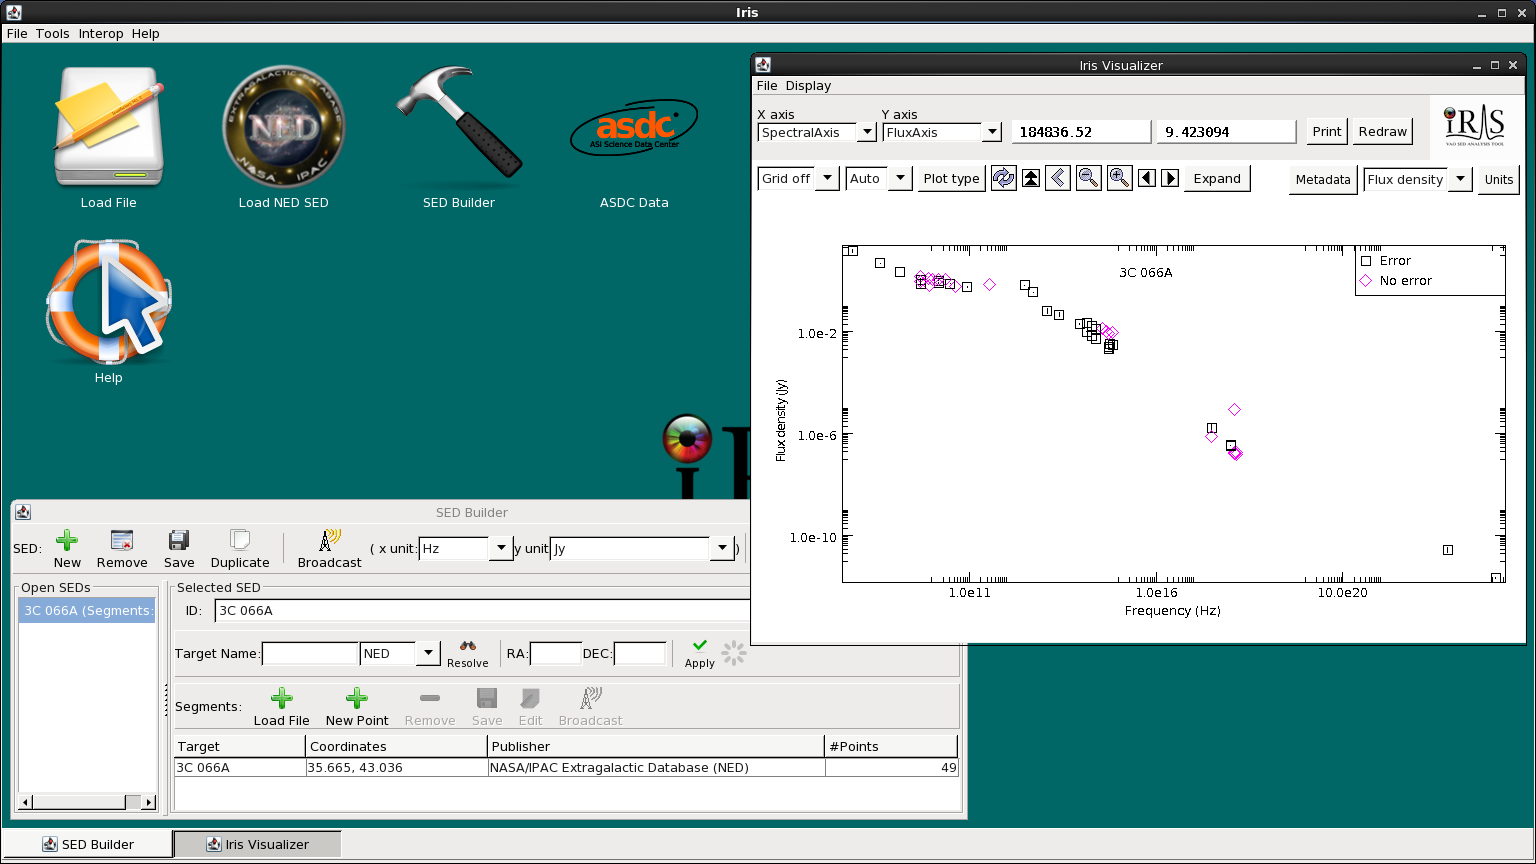
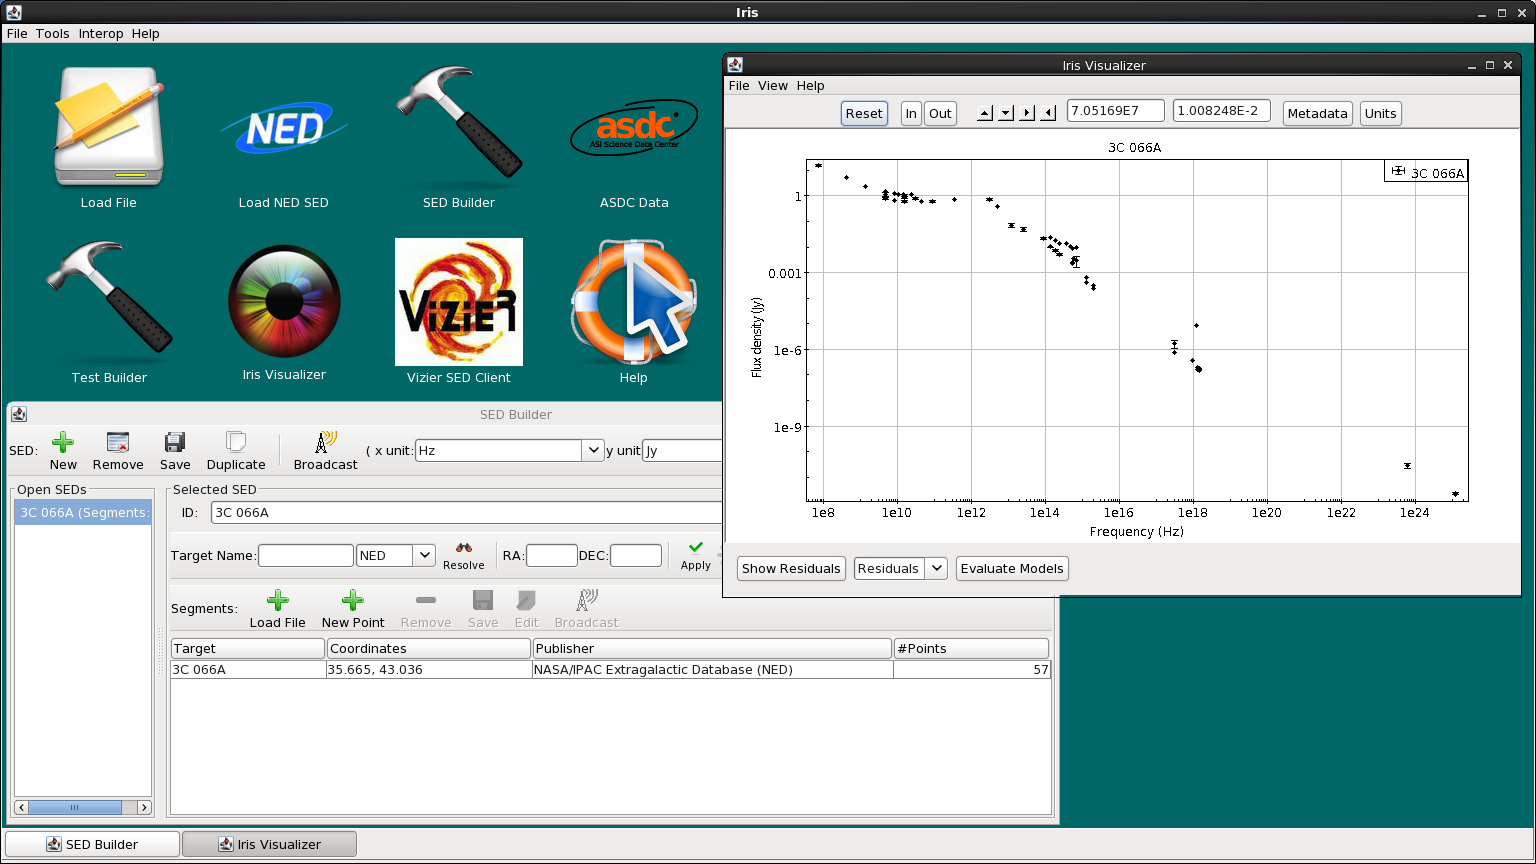
Update entry thread images and text for Iris 3.0

diff --git a/markdown/threads/entry/index.md b/markdown/threads/entry/index.md
@@ -102,7 +102,7 @@ $ source activate iris
 $ iris
 ```
 
-![snapshot of Iris GUI](./imgs/iris_desktop_small.jpg)
+![snapshot of Iris GUI](./imgs/iris_desktop_small.png)
 
 You can also start the application by opening a folder manager window on
 Linux or the Finder on Mac, navigating to the Iris 2.1 directory, and
@@ -212,7 +212,7 @@ appear automatically in the *Iris Visualizer*, and an entry for the
 imported SED will be added to the SED Builder window.
 
 [![Iris GUI
-snapshot](./imgs/entry_3c066a_plot_small.jpg)](./imgs/entry_3c066a_plot.png)
+snapshot](./imgs/entry_3c066a_plot_small.png)](./imgs/entry_3c066a_plot.png)
 
 This example query returns a collection of photometric data points
 obtained by various astronomical observatories, all contributed to the
@@ -249,7 +249,7 @@ Builder window of Iris there are no open SEDs, a new SED will be
 created.
 
 [![Transmitting a table from Topcat to
-Iris](./imgs/topcat_example_3c066a_small.jpg)](./imgs/topcat_example_3c066a.png)
+Iris](./imgs/topcat_example_3c066a_small.png)](./imgs/topcat_example_3c066a.png)
 
 Note that the "Broadcast SED" button in the SED Builder window can be
 used to transmit a SED *from* Iris to another SAMP-enabled application.
